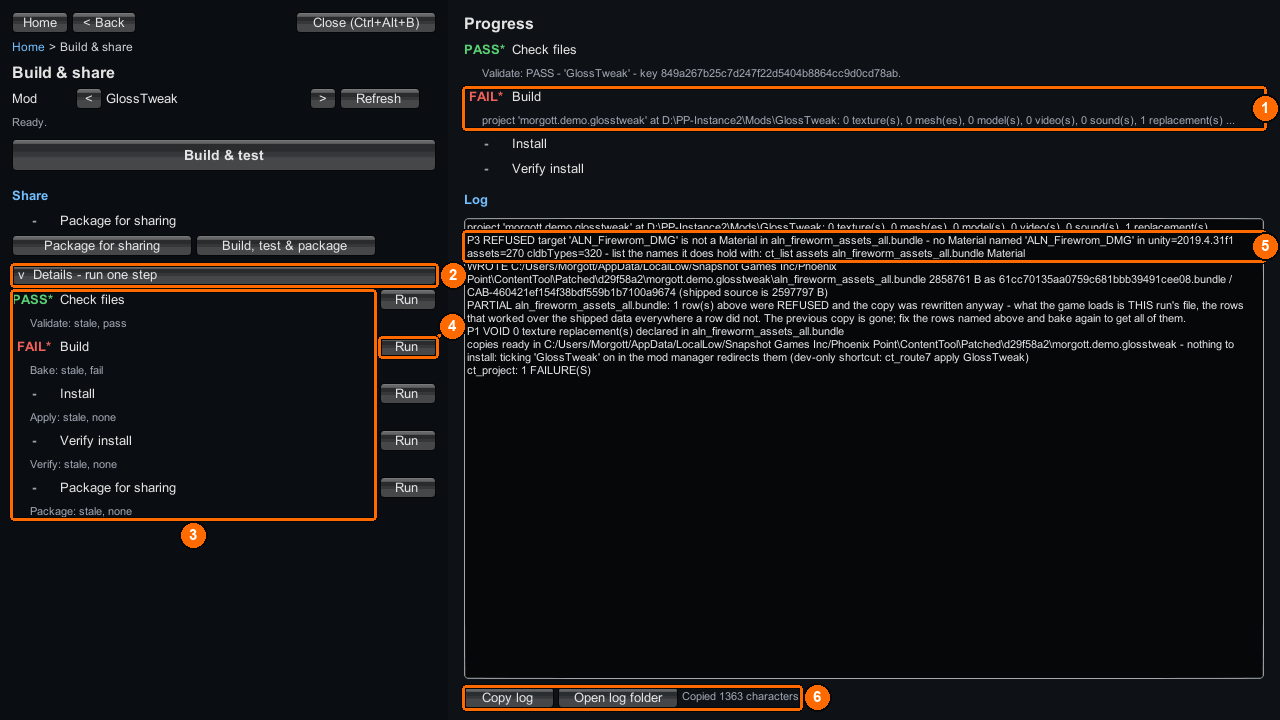
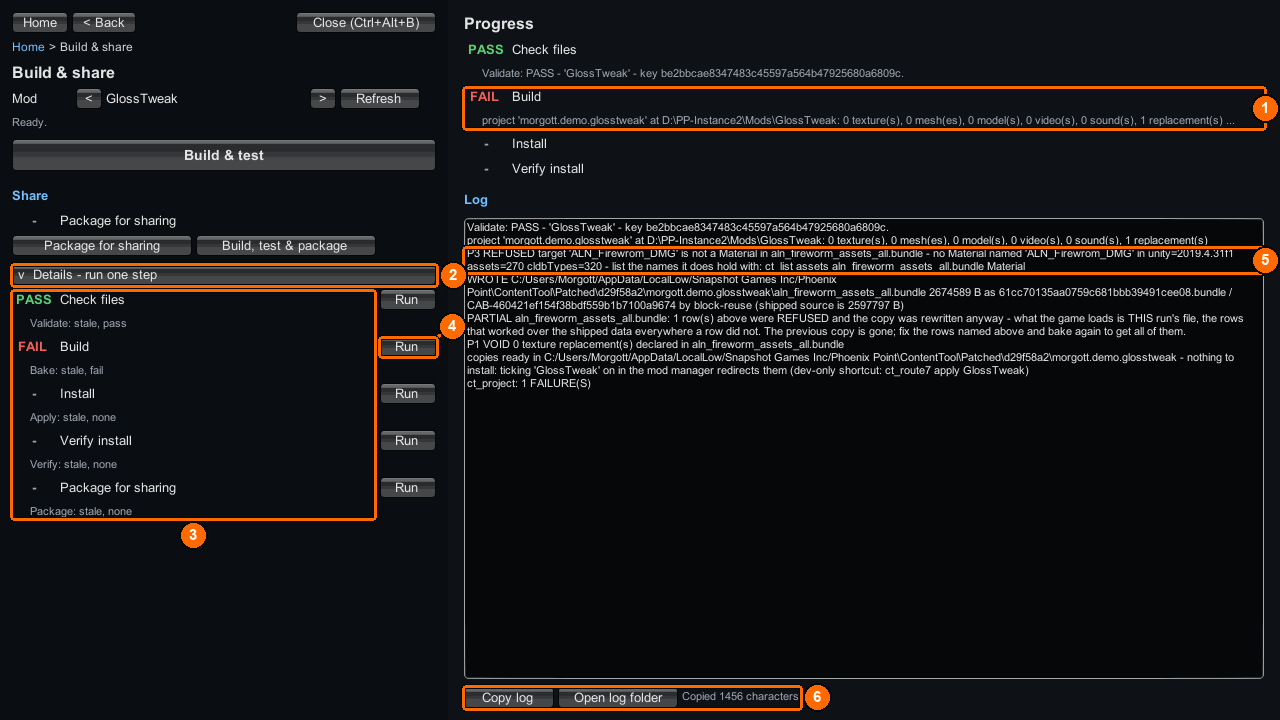
docs: re-shoot build-done and build-failed from a real build run, drop the last paint-over masks and the mask code in annotate-shots.py

diff --git a/tools/annotate-shots.py b/tools/annotate-shots.py
@@ -4,13 +4,12 @@
     python tools/annotate-shots.py sounds     only images whose name contains 'sounds'
 
 Reads   docs/images/bench/src/<name>.png   (clean 1280x720 shots, never edited by hand)
-        tools/annotate-shots.json          (per image: callouts and masks)
+        tools/annotate-shots.json          (per image: callouts)
 Writes  docs/images/bench/<name>.png       (annotated, palette-quantized)
 
 A callout = a box around a UI element plus a numbered circle beside it. The page text refers to
-the numbers, so keep them in the order the text reads. A mask paints over a control the current
-build no longer draws (e.g. the old grey 'Reset view' on screens without a 3D view) with the colour
-sampled at 'sample'. When the UI changes: re-shoot into src/, fix the rectangles, run this again.
+the numbers, so keep them in the order the text reads. When the UI changes: re-shoot into src/,
+fix the rectangles, run this again.
 Needs Pillow.
 """
 import json
@@ -66,9 +65,6 @@ def edge_point(rect, p):
 def annotate(name, spec, num_font):
     img = Image.open(SRC / name).convert("RGB")
     d = ImageDraw.Draw(img)
-    for m in spec.get("mask", []):
-        colour = img.getpixel(tuple(m["sample"]))
-        d.rectangle(m["rect"], fill=colour)
     callouts = spec.get("callouts", [])
     for c in callouts:
         x0, y0, x1, y1 = c["rect"]

diff --git a/docs/bench/lifecycle-tab.md b/docs/bench/lifecycle-tab.md
@@ -37,11 +37,11 @@ While a run is going, `Cancel` asks it to stop. Steps already finished keep thei
 
 In this example the `GlossTweak` mod names a material with a typo.
 
-1. `Progress` shows `FAIL*` at `Build` (**1**); `Install` and `Verify install` never ran.
+1. `Progress` shows `FAIL` at `Build` (**1**); `Install` and `Verify install` never ran.
 2. Open `Details - run one step` (**2**). Every stage has a row (**3**) with its state, such as `Bake: stale, fail`, and its own `Run` button (**4**) that runs only that step.
 3. Find the refusal in the log (**5**): `P3 REFUSED target 'ALN_Firewrom_DMG' is not a Material in aln_fireworm_assets_all.bundle`. The line also names the command that lists the real names: `ct_list assets aln_fireworm_assets_all.bundle Material`.
 4. Correct the name in `ppcontent.json` (`ALN_Fireworm_DMG`), then press `Run` beside `Build` (**4**), or `Build & test` to run everything again.
-5. If you need help, press `Copy log` (**6**); the bench confirms `Copied 1363 characters`. Paste it into your message.
+5. If you need help, press `Copy log` (**6**); the bench confirms `Copied 1456 characters`. Paste it into your message.
 
 ## Restart cases
 
@@ -54,8 +54,8 @@ In this example the `GlossTweak` mod names a material with a typo.
 
 1. Check that all four steps show `PASS` (**1**).
 2. Under `Share` (**2**), press `Package for sharing`. `Build, test & package` runs all five steps in one go instead.
-3. The `Package for sharing` row turns `PASS` and shows where the package went (**2**), for example `PACKAGED 3 file(s), 4934 B into ...\ContentTool\Packages\morgott.demo.materialtweak\20260928-135305-7`.
-4. Read the log (**3**): zip the **folder itself**, so the archive holds `20260928-135305-7\meta.json`, and upload it. A player unzips it into `Mods\` or subscribes on the Workshop; the mod manager enables ContentTool for them because `meta.json` declares it.
+3. The `Package for sharing` row turns `PASS` and shows where the package went (**2**), for example `PACKAGED 3 file(s), 4934 B into ...\ContentTool\Packages\morgott.demo.materialtweak\20260928-164013-7`.
+4. Read the log (**3**): zip the **folder itself**, so the archive holds `20260928-164013-7\meta.json`, and upload it. A player unzips it into `Mods\` or subscribes on the Workshop; the mod manager enables ContentTool for them because `meta.json` declares it.
 
 Every bench package gets its own new folder:
 

diff --git a/docs/bench/navigation.md b/docs/bench/navigation.md
@@ -51,7 +51,7 @@ Open `Your other mods (<n>)` to pick an existing mod, and press `Look again` to 
 
 `Replace a model`, `Sounds`, `Videos` and `Add a weapon` keep their log in a `Details and log` fold. `Build & share` shows its `Log` on the right. The log text is selectable.
 
-- `Copy log` (**6**) puts the whole log on the clipboard, not only the visible part. The bench confirms it with a line such as `Copied 1363 characters` (**6**).
+- `Copy log` (**6**) puts the whole log on the clipboard, not only the visible part. The bench confirms it with a line such as `Copied 1456 characters` (**6**).
 - `Open log folder` (**6**) opens the folder of the game’s own log file (`Player.log`) in Explorer, with the file selected.
 
 When you ask someone for help, say which task, file and game target you chose, paste the copied log, and quote the line under any grey button. In the picture, the refusal line in the log (**5**) explains the failure; the `FAIL*` mark alone (**1**) does not.
